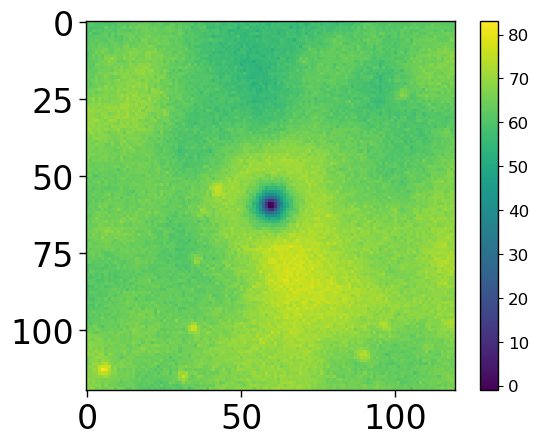
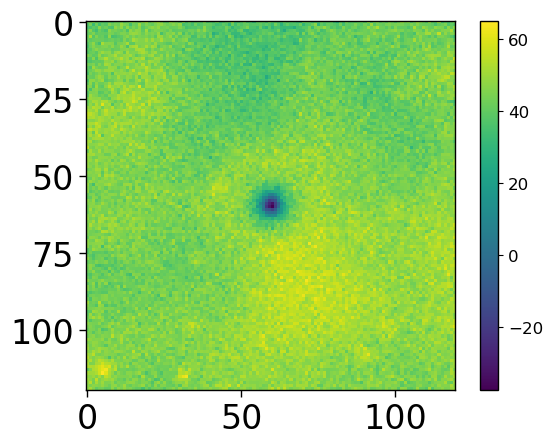
added histograms

diff --git a/aperturephotometry.py b/aperturephotometry.py
@@ -64,7 +64,7 @@ print(N)
 stack90=stack90/N
 stack150=stack150/N
 io.plot_img(stack90,"stack90")
-io.plot_img(stack150,"stack90")
+io.plot_img(stack150,"stack150")
 
 plt.scatter(MeasuredY,S90s)
 ymax=max(S90s)
@@ -73,8 +73,25 @@ plt.ylim(ymin,ymax)
 plt.xlabel('Measured Y')
 plt.ylabel('Flux')
 plt.savefig("Flux vs Measured Y 90")
-# plt.hist(CalculatedY)
-# plt.savefig("Calculated Y Hist")
+plt.close()
+
+plt.scatter(MeasuredY,S150s)
+ymax=max(S150s)
+ymin=min(S150s)
+plt.ylim(ymin,ymax)
+plt.xlabel('Measured Y')
+plt.ylabel('Flux')
+plt.savefig("Flux vs Measured Y 150")
+plt.close()
+
+plt.hist(S90s)
+plt.savefig("Flux 90 Hist")
+plt.close()
+
+plt.hist(S150s)
+plt.savefig("Flux 150 Hist")
+plt.close()
+
 # plt.scatter(MeasuredY,CalculatedY)
 # ymax=max(CalculatedY)
 # ymin=min(CalculatedY)
